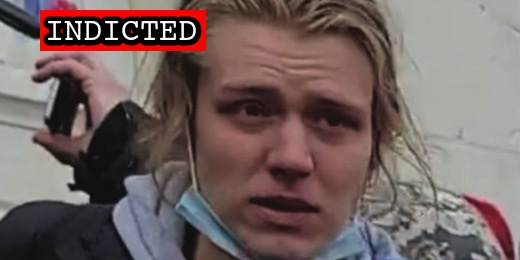
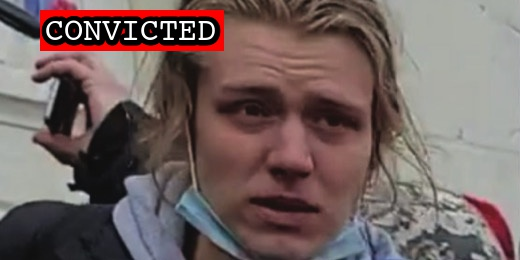
Latest import

Changed region(s): [[0.0615, 0.0308, 0.4308, 0.2154]]

diff --git a/docs/_suspects/aiden-bilyard.md b/docs/_suspects/aiden-bilyard.md
@@ -4,11 +4,11 @@ lastName: Bilyard
 hashtag: HarvardSweats
 aka:
 residence: North Carolina
-status: Indicted
+status: Convicted
 date: 2021-11-15
 charged: 2021-11-15
 indicted: 2022-01-26
-convicted:
+convicted: 2022-10-20
 acquitted:
 sentenced:
 dismissed:
@@ -40,8 +40,15 @@ caseName: USA v. BILYARD
 judge: Reggie B. Walton
 videos:
 charges:
+  - code: 18 USC § 111(a)(1) and (b)
+    title: Assaulting, resisting, or impeding certain officers or employees (using a deadly or dangerous weapon)
+    url: https://www.law.cornell.edu/uscode/text/18/111
+    felony: true
 sentence:
 ---
+
 - [News Report](https://www.huffpost.com/entry/aiden-bilyard-capitol-riot-air-force_n_619d3479e4b044a1cc0dc38c)
 - [Statement of Facts](https://www.justice.gov/usao-dc/case-multi-defendant/file/1459026/download)
-- [Indictment](https://extremism.gwu.edu/sites/g/files/zaxdzs2191/f/Aiden%20Henry%20Bilyard%20Indictment.pdf)
+- [Indictment](https://www.justice.gov/usao-dc/case-multi-defendant/file/1545681/download)
+- [Plea Agreement](https://www.justice.gov/usao-dc/case-multi-defendant/file/1545686/download)
+- [Statement of Offense](https://www.justice.gov/usao-dc/case-multi-defendant/file/1545691/download)

diff --git a/docs/_suspects/jia-liu.md b/docs/_suspects/jia-liu.md
@@ -4,11 +4,11 @@ lastName: Liu
 hashtag:
 aka:
 residence: New York
-status: Charged
+status: Convicted
 date: 2021-10-21
 charged: 2021-10-21
 indicted:
-convicted:
+convicted: 2022-10-20
 acquitted:
 sentenced:
 dismissed:
@@ -40,8 +40,15 @@ caseName: USA v. LIU
 judge: Timothy J. Kelly
 videos:
 charges:
+  - code: 18 USC § 1752(a)(1)
+    title: Entering a restricted building or grounds
+    url: https://www.law.cornell.edu/uscode/text/18/1752
+    felony: false
 sentence:
 ---
+
 - [News Report](https://www.amny.com/news/queens-man-cuffed-for-role-in-attack-on-capitol-building-on-jan-6/)
 - [Statement of Facts](https://www.justice.gov/usao-dc/case-multi-defendant/file/1458881/download)
-- [Information](https://www.justice.gov/usao-dc/case-multi-defendant/file/1458871/download)
+- [Information](https://www.justice.gov/usao-dc/case-multi-defendant/file/1545776/download)
+- [Plea Agreement](https://www.justice.gov/usao-dc/case-multi-defendant/file/1545781/download)
+- [Statement of Offense](https://www.justice.gov/usao-dc/case-multi-defendant/file/1545786/download)

diff --git a/docs/_suspects/tucker-weston.md b/docs/_suspects/tucker-weston.md
@@ -1,0 +1,47 @@
+---
+name: Tucker Weston
+lastName: Weston
+hashtag:
+aka:
+residence:
+status: Charged
+date: 2022-10-18
+charged: 2022-10-18
+indicted:
+convicted:
+acquitted:
+sentenced:
+dismissed:
+deceased:
+plea_hearing:
+trial_date:
+trial_type:
+sentencing:
+status_conference:
+age:
+occupation:
+affiliations:
+jurisdiction: Federal
+image: /images/preview/tucker-weston.jpg
+suspect: tucker-weston.jpg
+booking:
+courtroom:
+courthouse:
+raid:
+perpwalk:
+quote:
+title: Tucker Weston charged on October 18th, 2022
+description: Click for latest case details. Suspects innocent until proven guilty.
+author: seditiontrack
+layout: suspect
+published: false
+caseNumber: 
+caseName:
+judge:
+videos:
+charges:
+sentence:
+---
+- [News Report]()
+- [Complaint](https://www.justice.gov/usao-dc/case-multi-defendant/file/1545596/download)
+- [Statement of Facts](https://www.justice.gov/usao-dc/case-multi-defendant/file/1545601/download)

diff --git a/docs/_suspects/jesse-watson.md b/docs/_suspects/jesse-watson.md
@@ -1,0 +1,47 @@
+---
+name: Jesse Watson
+lastName: Watson
+hashtag:
+aka:
+residence:
+status: Charged
+date: 2022-10-18
+charged: 2022-10-18
+indicted:
+convicted:
+acquitted:
+sentenced:
+dismissed:
+deceased:
+plea_hearing:
+trial_date:
+trial_type:
+sentencing:
+status_conference:
+age:
+occupation:
+affiliations:
+jurisdiction: Federal
+image: /images/preview/jesse-watson.jpg
+suspect: jesse-watson.jpg
+booking:
+courtroom:
+courthouse:
+raid:
+perpwalk:
+quote:
+title: Jesse Watson charged on October 18th, 2022
+description: Click for latest case details. Suspects innocent until proven guilty.
+author: seditiontrack
+layout: suspect
+published: false
+caseNumber: 
+caseName:
+judge:
+videos:
+charges:
+sentence:
+---
+- [News Report]()
+- [Complaint](https://www.justice.gov/usao-dc/case-multi-defendant/file/1545611/download)
+- [Statement of Facts](https://www.justice.gov/usao-dc/case-multi-defendant/file/1545616/download)
